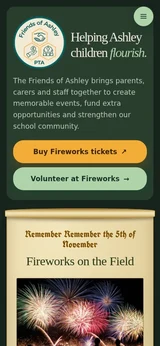
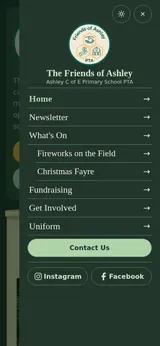
Taller 5:9 phone crop; FOA menu-open and Sam playing captures re-shot at 5:9

diff --git a/assets/css/site.css b/assets/css/site.css
@@ -369,10 +369,10 @@ body[data-style="atelier"][data-theme="dark"] .credstrip { background: #101711; 
   .shot { background: transparent; border: 0; box-shadow: none; overflow: visible; }
   .shotbar, .shot-desk { display: none; }
   .shot:not(:has(noscript .shot-img)) .shot-template:first-of-type { display: none; }
-  .shot-mob { display: block; position: static; height: auto; aspect-ratio: 5 / 7; object-fit: cover; object-position: center top; width: min(85%, 300px); margin: 0 auto; border-radius: 16px; box-shadow: inset 0 0 0 4px #17191c, 0 8px 20px rgba(0, 0, 0, .38); }
+  .shot-mob { display: block; position: static; height: auto; aspect-ratio: 5 / 9; object-fit: cover; object-position: center top; width: min(85%, 300px); margin: 0 auto; border-radius: 16px; box-shadow: inset 0 0 0 4px #17191c, 0 8px 20px rgba(0, 0, 0, .38); }
   /* Reserve the phone block before its template is activated, so activation
      does not shift the thumbnails and copy below. */
-  .shot:not(:has(noscript .shot-img)) .shot-template:last-of-type { display: block; aspect-ratio: 5 / 7; width: min(85%, 300px); margin: 0 auto; }
+  .shot:not(:has(noscript .shot-img)) .shot-template:last-of-type { display: block; aspect-ratio: 5 / 9; width: min(85%, 300px); margin: 0 auto; }
   .site-nav { padding: 22px 20px; }
   .hero-grid { gap: 28px; }
   .hero-grid .portrait-wrap { width: 190px; }
@@ -443,8 +443,8 @@ body[data-mobile="true"] .shot-mob { border-radius: 8px; }
 body[data-mobile="true"] .shot { background: transparent; border: 0; box-shadow: none; overflow: visible; }
 body[data-mobile="true"] .shotbar, body[data-mobile="true"] .shot-desk { display: none; }
 body[data-mobile="true"] .shot:not(:has(noscript .shot-img)) .shot-template:first-of-type { display: none; }
-body[data-mobile="true"] .shot-mob { display: block; position: static; height: auto; aspect-ratio: 5 / 7; object-fit: cover; object-position: center top; width: min(85%, 300px); margin: 0 auto; border-radius: 16px; box-shadow: inset 0 0 0 4px #17191c, 0 8px 20px rgba(0, 0, 0, .38); }
-body[data-mobile="true"] .shot:not(:has(noscript .shot-img)) .shot-template:last-of-type { display: block; aspect-ratio: 5 / 7; width: min(85%, 300px); margin: 0 auto; }
+body[data-mobile="true"] .shot-mob { display: block; position: static; height: auto; aspect-ratio: 5 / 9; object-fit: cover; object-position: center top; width: min(85%, 300px); margin: 0 auto; border-radius: 16px; box-shadow: inset 0 0 0 4px #17191c, 0 8px 20px rgba(0, 0, 0, .38); }
+body[data-mobile="true"] .shot:not(:has(noscript .shot-img)) .shot-template:last-of-type { display: block; aspect-ratio: 5 / 9; width: min(85%, 300px); margin: 0 auto; }
 body[data-mobile="true"] .thumb { padding: 10px 8px; }
 body[data-mobile="true"] .case-heading h2 { font-size: 26px; margin: 8px 0 0; }
 body[data-mobile="true"] .case-copy p { font-size: 16px; line-height: 1.55; margin-top: 0; }
